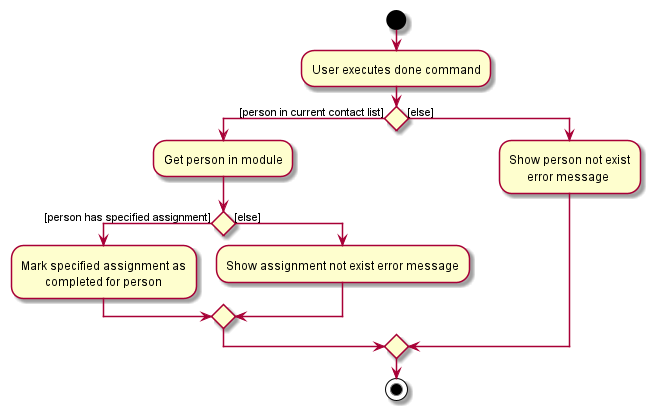
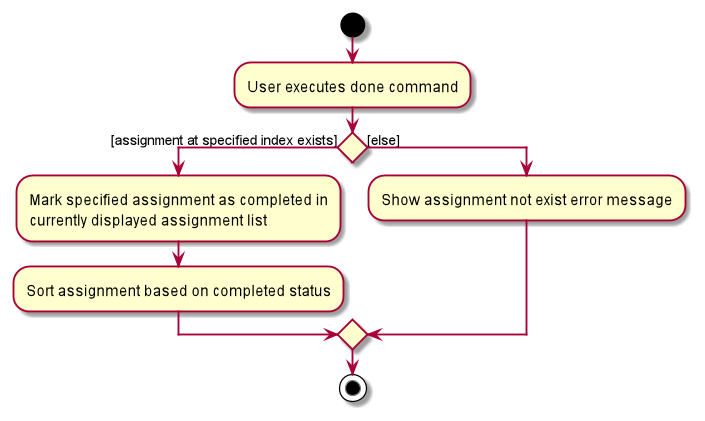
fix bug in dg implementation of give remove and done

diff --git a/docs/DeveloperGuide.md b/docs/DeveloperGuide.md
@@ -443,13 +443,13 @@ Given below is an example usage scenario and how the `AddAssignmentCommand` is e
 
 Step 1. The user executes `list` command to see the current list of persons.
 
-Step 2. The user executes `give n/Xiao m/CS2103 d/Assignment 1 by/ 03/11/2021` command to add assignment to Xiao in
-the specified module. When `Command#execute` is called, the `give n/...` command will filter out persons in the current
-displayed list with the module field `CS2103` and add the specified assignment to him if this person exists, and he does
-not have the assignment.
+Step 2. The user executes `give 2 d/Assignment 1 by/ 03/11/2021` command to add assignment to the first person in
+the specified module. When `Command#execute` is called, the `give 2...` command will filter out persons in the current
+displayed list with `INDEX` 2 and add the specified assignment to this person if he or she exists and does
+not have that assignment.
 
-<div markdown="span" class="alert alert-info">:information_source: **Note:** If there are no
-persons with the specified module field, it will return an error to the user.
+<div markdown="span" class="alert alert-info">:information_source: **Note:** If the person at the specified 
+`INDEX` does not exist, it will return an error to the user.
 
 </div>
 
@@ -464,33 +464,31 @@ should end at the destroy marker (X) but due to a limitation of PlantUML, the li
 
 </div>
 
-Step 3. The user executes `show 1` to check that the specified assignment has been added for persons in the specified
-module.
-
 The following activity diagram summarizes what happens when a user executes the `give` command:
 
 <p align="center">
-  <img src="images/GiveActivityDiagram.png" width="500" height="550" />
+  <img src="images/GiveActivityDiagram.png" width="600" height="550" />
 </p>
 
 <div style="page-break-after: always;"></div>
 
 #### Design considerations
-**Aspect: Adds an assignment to a person in current displayed list or to any other person in storage:**
+**Aspect: Adds an assignment to a person in currently displayed list or to any other person in storage:**
 
-* **Alternative 1:** Add an assignment to a person in current displayed list
+* **Alternative 1 (current choice):** Add an assignment to a person in current displayed list.
     * Pros: If the displayed list is shorter, the addition of assignments will be faster.
-    * Cons: User has to carry out `list` command first if addition of assignment is desired for that person
+    * Cons: User has to carry out `list` command first if addition of assignment is desired for that person.
 
-* **Alternative 2 (current choice):** Add an assignment to any person in the storage
-    * Pros: Allows user to add assignment to a particular person even when he is not visible in the list
-    * Cons: Might take longer to execute
+* **Alternative 2:** Add an assignment to any person in the storage.
+    * Pros: Allows user to add assignment to a particular person even when he is not visible in the list.
+    * Cons: Might take longer to execute.
 
-* Considering the fact that the `give` command is meant for users to add assignments to any person in model,
-* **Alternative 2** was chosen as it meets this specification. Moreover, it will not duplicate the assignment for
+* Considering the fact that the `give` command is meant for users to add assignments to visible persons in contact list,
+* **Alternative 1** was chosen as it meets this specification. Moreover, it will not duplicate the assignment for
   persons who already have the assignment.
-  **Alternative 1** requires an additional command `list` to ensure the displayed list contains all persons before adding
-  assignments, which means it is less convenient for users as they have to do extra work.
+  **Alternative 1** requires an additional effort for user to ensure the person who he or she wants to give the assignment to
+  is actually stored in the contact list when the person is not in the currently displayed list but stored in contact list, which means mistakes 
+  about giving assignment to wrong person are likely to occur.
 
 <div style="page-break-after: always;"></div>
 
@@ -505,12 +503,12 @@ Given below is an example usage scenario and how the `DeleteAssignmentCommand` i
 
 Step 1. The user executes `list` command to see the current list of persons.
 
-Step 2. The user executes `remove n/Xiao 1` command to remove the first assignment of a person. When `Command#execute`
-is called, the `remove n/...` command will filter out persons in the storage list with the name field `Xiao`and remove
-the specified assignment if the person exists and has that assignment in assignment list.
+Step 2. The user executes `remove 1` command to remove the first assignment of a person whose assignments are currently displayed. When `Command#execute`
+is called, the `remove 1` command will filter out the assignment in the currently displayed assignment list with the `INDEX` 1 and remove
+the assignment if there is an assignment at that `INDEX` in assignment list.
 
 <div markdown="span" class="alert alert-info">:information_source:
-**Note:** If there are no persons with the specified module field or there are no persons who have this assignment, it will return an error to the user.
+**Note:** If currently displayed assignment list does not contain the assignment at specified `INDEX`, it will return an error to the user.
 </div>
 
 The following sequence diagram shows how the `remove` command is executed:
@@ -523,9 +521,6 @@ should end at the destroy marker (X) but due to a limitation of PlantUML, the li
 
 </div>
 
-Step 3. The user executes `show 1` to check that the specified assignment has been removed for person in the specified
-module with that assignment.
-
 The following activity diagram summarizes what happens when a user executes the `remove` command:
 <p align="center">
   <img src="images/RemoveActivityDiagram.png" width="600" height="550" />
@@ -534,16 +529,16 @@ The following activity diagram summarizes what happens when a user executes the 
 <div style="page-break-after: always;"></div>
 
 #### Design considerations
-**Aspect: Deletes assignment of a person in current displayed list or for any person in storage:**
+**Aspect: Deletes assignment of a person in currently displayed list or for any person in storage:**
 
-* **Alternative 1:** (current choice) Deletes assignment of a person in current displayed list
-    * Pros: Allows for a safer delete of assignments
-    * Cons: User has to carry out `list` command first if required person is not in the current displayed list
+* **Alternative 1:** (current choice) Deletes assignment of a person in the currently displayed list.
+    * Pros: Allows for a safer delete of assignments.
+    * Cons: User has to carry out `list` command first if required person is not in the current displayed list.
 
-* **Alternative 2:** Deletes assignment of any person with that name and assignment
-    * Pros: Allows user to delete assignment of a person without the need of additional commands
-    * Cons: User may not be certain about which person's assignment to delete if several of them has completed assignment
-    and likely to remember the wrong person name if the current person displayed list is not shown
+* **Alternative 2:** Deletes assignment of any person with that name and assignment.
+    * Pros: Allows user to delete assignment of a person without the need of additional commands.
+    * Cons: User may not be certain about which person's assignment to delete if several of them have completed the assignment
+    and likely to remember the wrong person name if the currently displayed contact list is not shown.
 
 * Considering the fact that TA<sup>2</sup> is designed to be efficient in managing student submissions, **alternative 1** is
   chosen. The potential undesired deletion of assignments in **alternative 2** means the user has to manually recover the
@@ -690,12 +685,12 @@ Given below is an example usage scenario and how the `MarkAssignmentCommand` is 
 
 Step 1. The user executes `list` command to see the current list of persons.
 
-Step 2. The user executes `done n/Xiao 1` command to mark the first assignment of a `Xiao` as done. When `Command#execute` is called,
-the `done n/...` command will filter out persons in the storage list with the name field `Xiao`and mark the specified assignment
-if the person exists and has that assignment in assignment list.
+Step 2. The user executes `done 1` command to mark the first assignment of the currently displayed assignment list as done. When `Command#execute` is called,
+the `done 1` command will filter out assignments with `INDEX` 1 and mark the specified assignment as completed
+if assignment of `INDEX` 1 exists in the currently displayed assignment list.
 
 <div markdown="span" class="alert alert-info">:information_source:
-**Note:** If there are no persons with the specified name field or there are no persons who have this assignment, it will return an error to the user.
+**Note:** If there is no assignment at that specified index, it will return an error to the user.
 </div>
 
 The following sequence diagram shows how the `done` command is executed:
@@ -708,9 +703,6 @@ should end at the destroy marker (X) but due to a limitation of PlantUML, the li
 
 </div>
 
-Step 3. The user executes `show 1` to check that the specified assignment has been marked for person with specified
-name with that assignment.
-
 The following activity diagram summarizes what happens when a user executes the `done` command:
 
 <p align="center">
@@ -722,14 +714,15 @@ The following activity diagram summarizes what happens when a user executes the 
 #### Design considerations
 **Aspect: Marks assignment of a person in current displayed list as done or for any person in storage model:**
 
-* **Alternative 1:** (current choice) Marks assignment of a person in current displayed list
-    * Pros: Allows for a safer mark of assignments
-    * Cons: User has to carry out `list` command first if required person is not in the current displayed list
+* **Alternative 1:** (current choice) Marks assignment in current displayed assignment list.
+    * Pros: Allows for a safer mark of assignments.
+    * Cons: User has to carry out `list` command first if required person is not in the current displayed list, which is followed
+    by `show` command if assignments of required person are not shown.
 
-* **Alternative 2:** Marks assignment of any person with that name and assignment
-    * Pros: Allows user to mark assignment of a person without the need of additional commands
+* **Alternative 2:** Marks assignment of any person with that name and assignment.
+    * Pros: Allows user to mark assignment of a person without the need of additional commands.
     * Cons: User may not be certain about which person's assignment to mark if several of them has completed assignment
-      and likely to remember the wrong person name if the current person displayed list is not shown
+      and likely to remember the wrong person name if the current person displayed list is not shown.
 
 * Considering the fact that TA<sup>2</sup> is designed to be user-friendly in managing student submissions, **alternative 1** is
   chosen. The potential undesired mark of assignments in **alternative 2** means the user has to manually recover the
@@ -1223,6 +1216,7 @@ Priorities: High (must have) - `* * *`, Medium (nice to have) - `* *`, Low (unli
 * **e/**: Symbol for a requirement to state email address
 * **m/**: Symbol for a requirement to state the module
 * **n/**: Symbol for a requirement to state a name
+* **t/**: Symbol for a requirement to state a tag
 * **TA**: Abbreviation for teaching assistant
 * **UC**: Abbreviation for use case
 * **SoC**: Abbreviation for School of Computing
